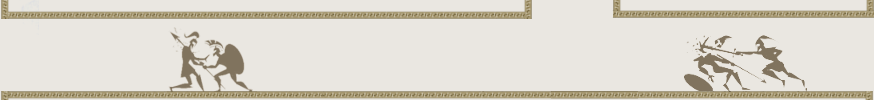
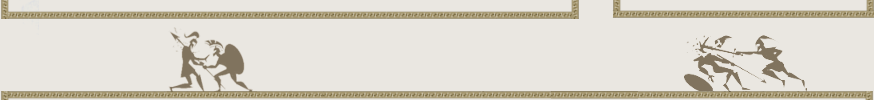
Élargissement du cadre

Changed region(s): [[0.587, 0.0, 0.6796, 0.21]]

diff --git a/css/design_deco.css b/css/design_deco.css
@@ -230,20 +230,39 @@
 #cadre_accueil21 {
   position:relative;
   float:left;
-  width:505px;
-  margin-top:5px;
+  width:553px;
   margin-left:12px;
   margin-bottom:5px;
-  text-align:center;
-  font-weight:bold;
-  font-size:0.9em;
+  text-align:justify;
+  font-size:1em;
 }
 
 #cadre_accueil22 {
   position:relative;
   float:left;
-  margin-left:110px;
+  margin-left:62px;
+  padding-top:2px;
   width:230px;
+}
+
+#cadre_accueil21 h1 {
+	margin-top:0;
+	margin-bottom:5px;
+}
+
+#cadre_accueil21 h2 {
+	margin:0;
+	text-align:center;
+	margin-top:3px;
+	font-size:1.2em;
+}
+
+#cadre_accueil21 h1:first-letter {
+    color: #B30000 !important;
+}
+
+#cadre_accueil21 h2:first-letter {
+    color: #B30000 !important;
 }
 
 .news {
